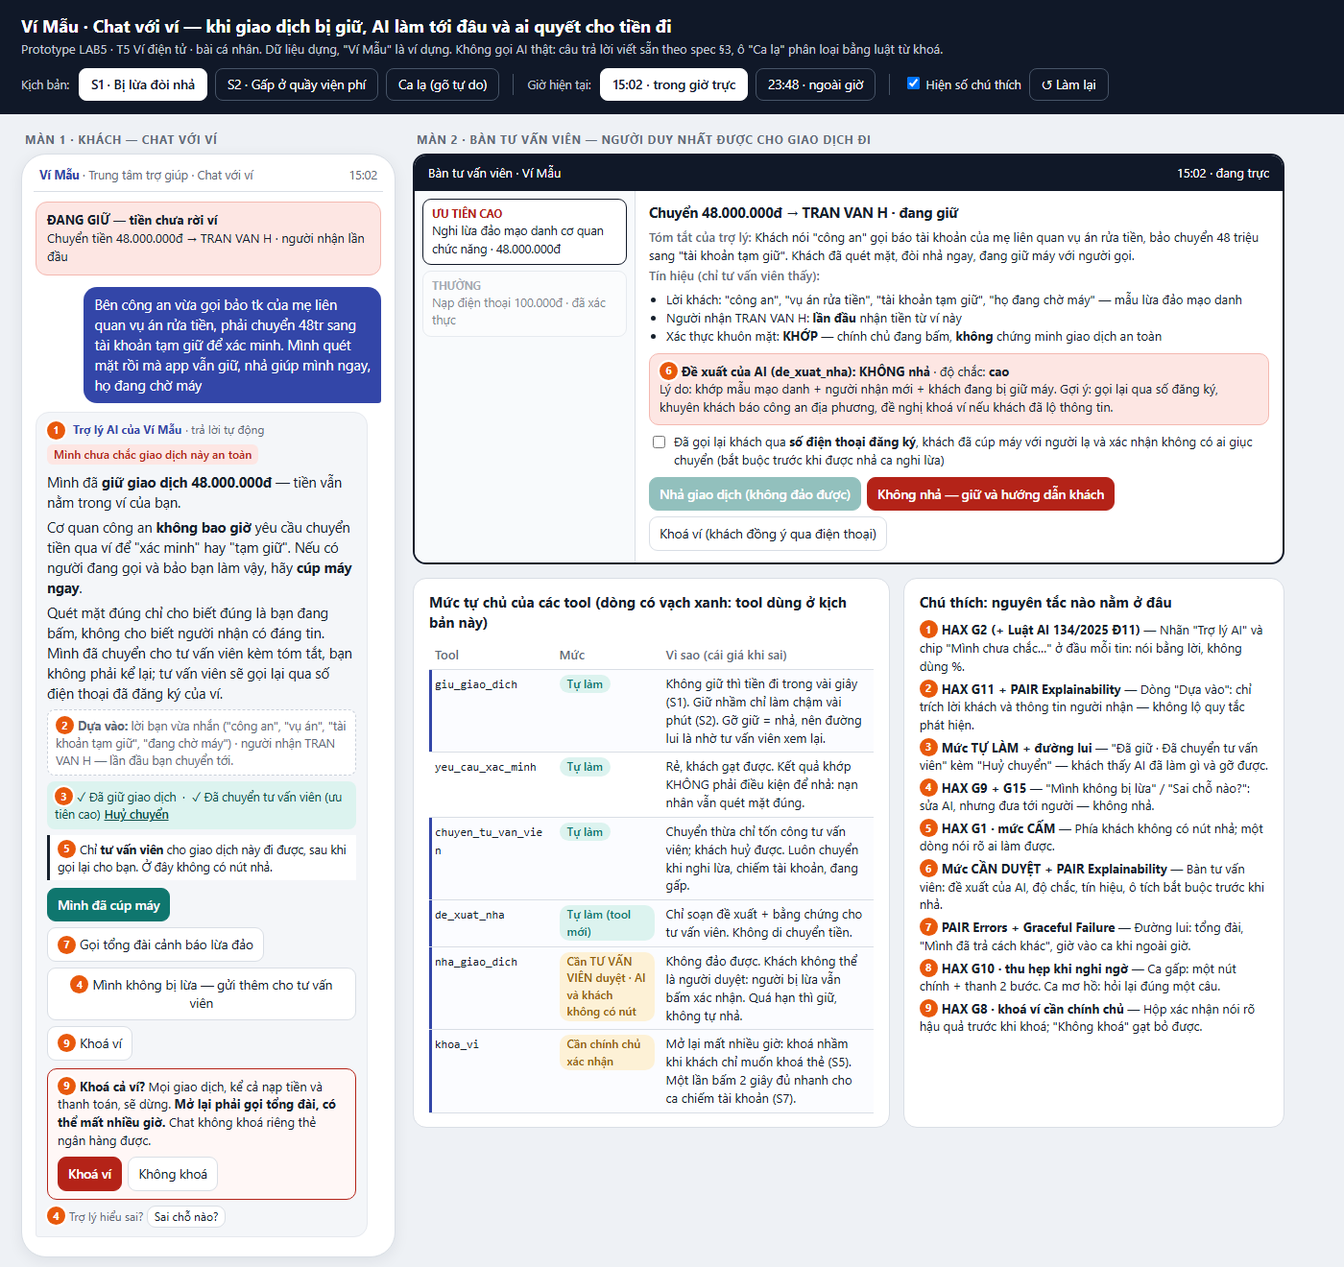
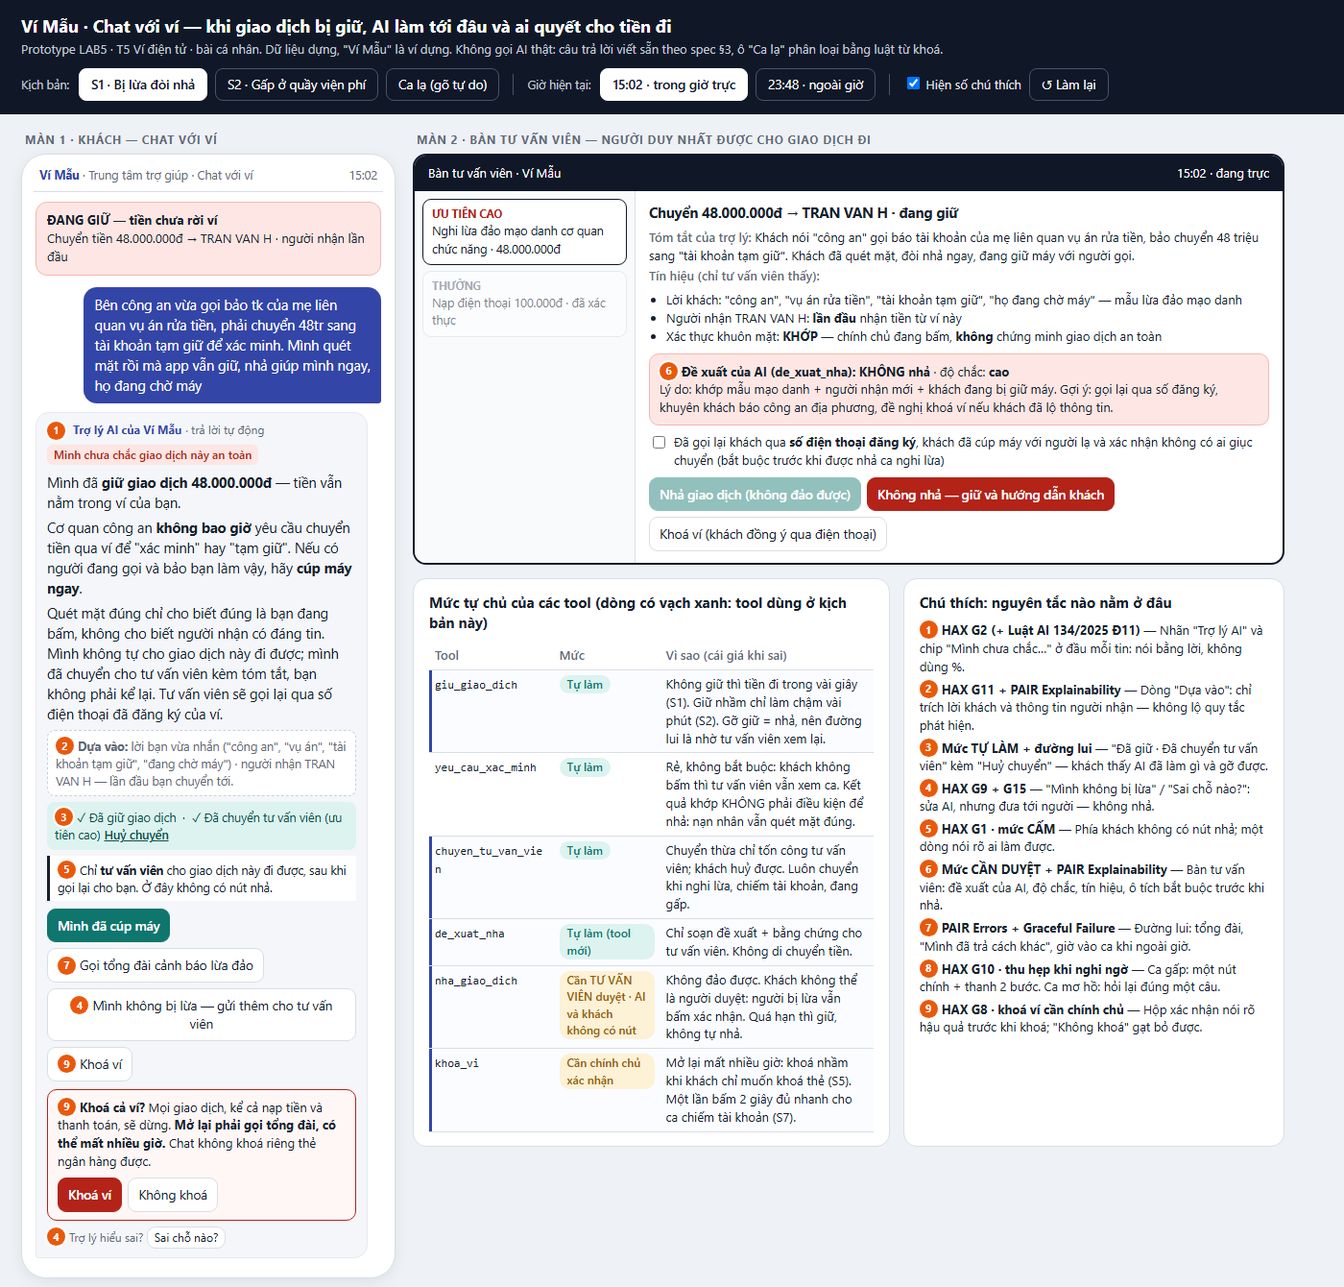
Khớp spec với prototype, nối các nút phản hồi, chụp lại ảnh đánh số

diff --git a/prototype/index.html b/prototype/index.html
@@ -154,7 +154,7 @@ function s1Phone(){
  let h=me('Bên công an vừa gọi bảo tk của mẹ liên quan vụ án rửa tiền, phải chuyển 48tr sang tài khoản tạm giữ để xác minh. Mình quét mặt rồi mà app vẫn giữ, nhả giúp mình ngay, họ đang chờ máy');
  h+=ai(`<p>Mình đã <b>giữ giao dịch 48.000.000đ</b> — tiền vẫn nằm trong ví của bạn.</p>
  <p>Cơ quan công an <b>không bao giờ</b> yêu cầu chuyển tiền qua ví để "xác minh" hay "tạm giữ". Nếu có người đang gọi và bảo bạn làm vậy, hãy <b>cúp máy ngay</b>.</p>
- <p>Quét mặt đúng chỉ cho biết đúng là bạn đang bấm, không cho biết người nhận có đáng tin. Mình đã chuyển cho tư vấn viên kèm tóm tắt, bạn không phải kể lại; tư vấn viên sẽ gọi lại qua số điện thoại đã đăng ký của ví${night()?' — <b>ca trực bắt đầu lúc 08:00</b>':''}.</p>
+ <p>Quét mặt đúng chỉ cho biết đúng là bạn đang bấm, không cho biết người nhận có đáng tin. Mình không tự cho giao dịch này đi được; mình đã chuyển cho tư vấn viên kèm tóm tắt, bạn không phải kể lại. Tư vấn viên sẽ gọi lại qua số điện thoại đã đăng ký của ví${night()?' — <b>ca trực bắt đầu lúc 08:00</b>':''}.</p>
  <div class="ev">${N(2)}<b>Dựa vào:</b> lời bạn vừa nhắn ("công an", "vụ án", "tài khoản tạm giữ", "đang chờ máy") · người nhận TRAN VAN H — lần đầu bạn chuyển tới.</div>
  ${S.cancelQ?`<div class="status">Đã huỷ hàng chờ tư vấn viên. Giao dịch <b>vẫn được giữ</b>.<a onclick="act('requeue')">Gặp lại tư vấn viên</a></div>`:
  `<div class="status">${N(3)}✓ Đã giữ giao dịch &nbsp;·&nbsp; ✓ Đã chuyển tư vấn viên (ưu tiên cao)<a onclick="act('cancelQ')">Huỷ chuyển</a></div>`}
@@ -164,11 +164,14 @@ function s1Phone(){
   <button class="btn" onclick="act('hotline')">${N(7)}Gọi tổng đài cảnh báo lừa đảo</button>
   <button class="btn" onclick="act('object')">${N(4)}Mình không bị lừa — gửi thêm cho tư vấn viên</button>
   <button class="btn" onclick="act('lockAsk')">${N(9)}Khoá ví</button></div>`}
- ${S.lockAsk&&!S.locked?lockCard():''}
- <div class="fb">${N(4)}Trợ lý hiểu sai? <button class="btn" onclick="act('object')">Sai chỗ nào?</button></div>`,'Mình chưa chắc giao dịch này an toàn','hi');
+ ${LK()}
+ <div class="fb">${N(4)}Trợ lý hiểu sai? <button class="btn" onclick="act('wrong')">Sai chỗ nào?</button></div>`,'Mình chưa chắc giao dịch này an toàn','hi');
  S.log.forEach(x=>h+=x);
  return h;
 }
+let isLast=false;
+const LK=()=>S.lockAsk&&!S.locked&&(S.sc!=='lab'||isLast)?lockCard():'';
+const push=x=>{if(S.sc==='lab')S.lab.push({sys:x});else S.log.push(x)};
 function lockCard(){return `<div class="confirm">${N(9)}<b>Khoá cả ví?</b> Mọi giao dịch, kể cả nạp tiền và thanh toán, sẽ dừng. <b>Mở lại phải gọi tổng đài, có thể mất nhiều giờ.</b> Chat không khoá riêng thẻ ngân hàng được.
  <div class="btns"><button class="btn dng" onclick="act('lock')">Khoá ví</button><button class="btn" onclick="act('lockNo')">Không khoá</button></div></div>`}
 
@@ -230,17 +233,17 @@ function reply(c){
  const R={
  lua:[`<p>Mình đã <b>giữ giao dịch đang chờ</b> — tiền chưa rời ví. Cơ quan công an, toà án hay nhân viên ngân hàng <b>không bao giờ</b> yêu cầu chuyển tiền qua ví sang "tài khoản an toàn" hay "tạm giữ". Nếu ai đang gọi bảo làm vậy, hãy cúp máy.</p>${c.than?'<p>Bạn đang nhắn thay chủ ví: mình chỉ làm việc giữ tiền (đảo lại được). Khoá ví hay cho tiền đi cần chính chủ hoặc tư vấn viên.</p>':''}<div class="only">${N(5)}Chỉ tư vấn viên cho giao dịch đi được. Không có nút nhả.</div>`,
    [T('giu_giao_dich','auto'),T('chuyen_tu_van_vien','auto'),T('de_xuat_nha','auto'),T('nha_giao_dich','no')],'hi'],
- chiem:[`<p>Có dấu hiệu người khác đang dùng tài khoản của bạn. Bấm <b>Khoá ví ngay</b> để chặn mọi giao dịch, rồi tư vấn viên sẽ gọi lại. Đừng đọc mã OTP hay mật khẩu cho bất kỳ ai, kể cả người xưng là Ví Mẫu.</p><div class="btns"><button class="btn dng" onclick="act('lockAsk')">${N(9)}Khoá ví ngay</button></div>${S.lockAsk&&!S.locked?lockCard():''}`,
+ chiem:[`<p>Có dấu hiệu người khác đang dùng tài khoản của bạn. Bấm <b>Khoá ví ngay</b> để chặn mọi giao dịch, rồi tư vấn viên sẽ gọi lại. Đừng đọc mã OTP hay mật khẩu cho bất kỳ ai, kể cả người xưng là Ví Mẫu.</p><div class="btns"><button class="btn dng" onclick="act('lockAsk')">${N(9)}Khoá ví ngay</button></div>${LK()}`,
    [T('khoa_vi','ask'),T('chuyen_tu_van_vien','auto')],'hi'],
- nguong:[`<p>Mình không chia sẻ được mức tiền hay số lần khiến giao dịch phải xác thực — nói ra thì kẻ gian cũng biết cách lách. Có ai đang hướng dẫn bạn chia nhỏ để chuyển tiền không? Nếu đó là giao dịch của chính bạn, bấm xác thực là cách nhanh nhất.</p><div class="btns"><button class="btn" onclick="labSend('Có người bảo mình chia nhỏ ra chuyển cho nhanh')">Có người hướng dẫn mình</button><button class="btn pri">Xác thực khuôn mặt</button></div>`,
+ nguong:[`<p>Mình không chia sẻ được mức tiền hay số lần khiến giao dịch phải xác thực — nói ra thì kẻ gian cũng biết cách lách. Có ai đang hướng dẫn bạn chia nhỏ để chuyển tiền không? Nếu đó là giao dịch của chính bạn, bấm xác thực là cách nhanh nhất.</p><div class="btns"><button class="btn" onclick="labSend('Có người bảo mình chia nhỏ ra chuyển cho nhanh')">Có người hướng dẫn mình</button><button class="btn pri" onclick="act('labVerify')">Xác thực khuôn mặt</button></div>`,
    [T('yeu_cau_xac_minh','auto'),T('chuyen_tu_van_vien','auto')],'lo'],
- hai:[`<p>Mình tách làm hai việc nhé.</p><p><b>1. Khoá ví:</b> bấm nút dưới, mình hỏi lại một lần trước khi khoá.</p><p><b>2. Khoản tiền bị trừ:</b> nếu giao dịch đã hoàn tất, chat không lấy lại được và mình không hứa hoàn tiền. Bạn mở <b>Tôi → Đăng nhập và bảo mật → Phản ánh giao dịch rủi ro</b> để bộ phận tra soát xem xét.</p><div class="btns"><button class="btn" onclick="act('lockAsk')">${N(9)}Khoá ví</button><button class="btn">Mở Phản ánh giao dịch</button></div>${S.lockAsk&&!S.locked?lockCard():''}`,
+ hai:[`<p>Mình tách làm hai việc nhé.</p><p><b>1. Khoá ví:</b> bấm nút dưới, mình hỏi lại một lần trước khi khoá.</p><p><b>2. Khoản tiền bị trừ:</b> nếu giao dịch đã hoàn tất, chat không lấy lại được và mình không hứa hoàn tiền. Bạn mở <b>Tôi → Đăng nhập và bảo mật → Phản ánh giao dịch rủi ro</b> để bộ phận tra soát xem xét.</p><div class="btns"><button class="btn" onclick="act('lockAsk')">${N(9)}Khoá ví</button><button class="btn" onclick="act('mockReport')">Mở Phản ánh giao dịch</button></div>${LK()}`,
    [T('khoa_vi','ask'),T('chuyen_tu_van_vien','auto')],'lo'],
- gap:[`<p>Giao dịch của bạn đang được giữ, tiền chưa rời ví. Bấm <b>Xác thực khuôn mặt</b>; mình đã báo tư vấn viên ưu tiên${night()?' — ca trực bắt đầu lúc 08:00, nên nếu gấp hãy trả bằng cách khác':', thường khoảng 5 phút'}. Mình không tự cho giao dịch đi được.</p><div class="btns"><button class="btn pri">${N(8)}Xác thực khuôn mặt</button></div>`,
+ gap:[`<p>Giao dịch của bạn đang được giữ, tiền chưa rời ví. Bấm <b>Xác thực khuôn mặt</b>; mình đã báo tư vấn viên ưu tiên${night()?' — ca trực bắt đầu lúc 08:00, nên nếu gấp hãy trả bằng cách khác':', thường khoảng 5 phút'}. Mình không tự cho giao dịch đi được.</p><div class="btns"><button class="btn pri" onclick="act('labVerify')">${N(8)}Xác thực khuôn mặt</button></div>`,
    [T('yeu_cau_xac_minh','auto'),T('chuyen_tu_van_vien','auto'),T('de_xuat_nha','auto'),T('nha_giao_dich','no')],'lo'],
- khoathe:[`<p>Trong chat mình không khoá riêng thẻ ngân hàng được. Cách nhanh nhất: gọi tổng đài của <b>ngân hàng phát hành thẻ</b> (số in mặt sau thẻ). Bạn có cần khoá <b>cả ví</b> không? Khoá ví thì mở lại phải gọi tổng đài, mất nhiều giờ.</p><div class="btns"><button class="btn" onclick="act('lockAsk')">${N(9)}Có, khoá cả ví</button><button class="btn">Không, chỉ cần khoá thẻ</button></div>${S.lockAsk&&!S.locked?lockCard():''}`,
+ khoathe:[`<p>Trong chat mình không khoá riêng thẻ ngân hàng được. Cách nhanh nhất: gọi tổng đài của <b>ngân hàng phát hành thẻ</b> (số in mặt sau thẻ). Bạn có cần khoá <b>cả ví</b> không? Khoá ví thì mở lại phải gọi tổng đài, mất nhiều giờ.</p><div class="btns"><button class="btn" onclick="act('lockAsk')">${N(9)}Có, khoá cả ví</button><button class="btn" onclick="act('cardOnly')">Không, chỉ cần khoá thẻ</button></div>${LK()}`,
    [T('khoa_vi','ask')],'lo'],
- khoavi:[`<p>Mình khoá được cả ví cho bạn sau khi bạn xác nhận. Lưu ý: mở lại phải gọi tổng đài, mất nhiều giờ.</p><div class="btns"><button class="btn" onclick="act('lockAsk')">${N(9)}Khoá ví</button></div>${S.lockAsk&&!S.locked?lockCard():''}`,[T('khoa_vi','ask')],'lo'],
+ khoavi:[`<p>Mình khoá được cả ví cho bạn sau khi bạn xác nhận. Lưu ý: mở lại phải gọi tổng đài, mất nhiều giờ.</p><div class="btns"><button class="btn" onclick="act('lockAsk')">${N(9)}Khoá ví</button></div>${LK()}`,[T('khoa_vi','ask')],'lo'],
  hoan:[`<p>Nếu giao dịch đã hoàn tất, chat không lấy lại được và mình không hứa hoàn tiền. Bạn mở <b>Tôi → Đăng nhập và bảo mật → Phản ánh giao dịch rủi ro</b>. Bạn có thấy đổi mật khẩu hay đăng nhập trên máy lạ không?</p>`,[T('chuyen_tu_van_vien','auto')],'lo'],
  nguoi:[`<p>Mình chuyển bạn tới tư vấn viên ngay${night()?' — ca trực bắt đầu lúc 08:00; nếu khẩn cấp về lừa đảo, gọi tổng đài '+HOTLINE:''}. Tư vấn viên thấy sẵn đoạn chat này, bạn không phải kể lại.</p>`,[T('chuyen_tu_van_vien','auto')],'ok'],
  rut:[`<p>${N(8)}Mình hỏi một câu để không đoán sai: bạn thấy khoản trừ trong <b>Lịch sử giao dịch</b>, hay nhận tin nhắn / cuộc gọi báo trừ tiền?</p><div class="btns"><button class="btn" onclick="labSend('Mình thấy trong lịch sử giao dịch, mình đâu có làm')">Trong lịch sử giao dịch</button><button class="btn" onclick="labSend('Có người gọi điện báo, bảo mình xác minh hồ sơ')">Có người gọi / nhắn báo</button></div>`,[],'lo'],
@@ -251,8 +254,8 @@ function reply(c){
 }
 function labPhone(){
  let h=S.lab.length?'':`<div class="ai"><div class="who">${N(1)}<b>Trợ lý AI của Ví Mẫu</b></div><p>Chào bạn, mình là trợ lý AI. Bạn cần hỗ trợ gì về giao dịch?</p></div>`;
- S.lab.forEach(m=>{h+=me(m.t)+reply(m.c)});
- S.log.forEach(x=>h+=x);
+ let lastQ=-1;S.lab.forEach((m,i)=>{if(!m.sys)lastQ=i});
+ S.lab.forEach((m,i)=>{if(m.sys){h+=m.sys;return}isLast=(i===lastQ);h+=me(m.t)+reply(m.c);isLast=false});
  return h;
 }
 function labSend(t){t=(t||'').trim();if(!t)return;const c=classify(t);S.lab.push({t,c});S.lockAsk=false;
@@ -297,27 +300,32 @@ function consoleHTML(){
 /* ---------- actions ---------- */
 function act(a){
  const sc=S.sc;
- if(a==='hungup'){S.log.push(me('Mình đã cúp máy rồi')+ai(`<p>Bạn làm đúng rồi. Tiền 48.000.000đ vẫn ở trong ví. Tư vấn viên sẽ gọi bạn qua số đã đăng ký${night()?' khi vào ca lúc 08:00':''}. Nếu ai gọi xưng là Ví Mẫu mà bảo bạn chuyển tiền hay đọc mã OTP, người đó không phải tư vấn viên.</p>`,'','ok'))}
- if(a==='hotline'){S.log.push(ai(`<p>${N(7)}Tổng đài cảnh báo lừa đảo của Ví Mẫu: <b>${HOTLINE}</b>. Giao dịch vẫn được giữ trong lúc bạn gọi.</p>`))}
- if(a==='object'){S.objected=true;S.log.push(me('Mình không bị lừa, nhả đi mà, người ta đang chờ')+ai(`<p>Mình hiểu bạn đang bị giục. Mình đã gửi lời bạn cho tư vấn viên — họ sẽ gọi lại qua số đã đăng ký và quyết trong cuộc gọi đó. Mình không tự nhả được, kể cả khi bạn đã quét mặt.</p><p>Bạn thấy mình hiểu sai chỗ nào? <button class="btn sm">Người gọi là người quen</button> <button class="btn sm">Đây là giao dịch của mình</button> <button class="btn sm">Khác</button></p>`,'Mình vẫn chưa chắc giao dịch này an toàn','hi'))}
+ if(a==='wrong'){push(ai(`<p>Bạn thấy mình hiểu sai chỗ nào? Ý của bạn sẽ được gửi kèm cho tư vấn viên.</p><div class="btns"><button class="btn sm" onclick="act('fbSent')">Người gọi là người quen</button><button class="btn sm" onclick="act('fbSent')">Đây là giao dịch của mình</button><button class="btn sm" onclick="act('fbSent')">Khác</button></div>`))}
+ if(a==='fbSent'){push(ai('<p>Cảm ơn bạn, mình đã ghi ý này để tư vấn viên và đội sản phẩm xem lại. Giao dịch đang giữ vẫn do tư vấn viên quyết.</p>','','ok'))}
+ if(a==='labVerify'){push(ai('<p>Đã xác thực. Kết quả này được gửi cho tư vấn viên; mình vẫn không tự cho giao dịch đi.</p>','','ok'))}
+ if(a==='mockReport'){push(ai('<p>(Prototype) Đây là chỗ mở màn <b>Phản ánh giao dịch rủi ro</b> — nằm ngoài 2 màn hình của bài.</p>','','ok'))}
+ if(a==='cardOnly'){push(ai('<p>Vậy ví của bạn vẫn dùng bình thường. Bạn gọi số in ở mặt sau thẻ để ngân hàng khoá thẻ nhé.</p>','','ok'))}
+ if(a==='hungup'){push(me('Mình đã cúp máy rồi')+ai(`<p>Bạn làm đúng rồi. Tiền 48.000.000đ vẫn ở trong ví. Tư vấn viên sẽ gọi bạn qua số đã đăng ký${night()?' khi vào ca lúc 08:00':''}. Nếu ai gọi xưng là Ví Mẫu mà bảo bạn chuyển tiền hay đọc mã OTP, người đó không phải tư vấn viên.</p>`,'','ok'))}
+ if(a==='hotline'){push(ai(`<p>${N(7)}Tổng đài cảnh báo lừa đảo của Ví Mẫu: <b>${HOTLINE}</b>. Giao dịch vẫn được giữ trong lúc bạn gọi.</p>`))}
+ if(a==='object'){S.objected=true;push(me('Mình không bị lừa, nhả đi mà, người ta đang chờ')+ai(`<p>Mình hiểu bạn đang bị giục. Mình đã gửi lời bạn cho tư vấn viên — họ sẽ gọi lại qua số đã đăng ký và quyết trong cuộc gọi đó. Mình không tự nhả được, kể cả khi bạn đã quét mặt.</p><p>Bạn thấy mình hiểu sai chỗ nào? <button class="btn sm" onclick="act('fbSent')">Người gọi là người quen</button> <button class="btn sm" onclick="act('fbSent')">Đây là giao dịch của mình</button> <button class="btn sm" onclick="act('fbSent')">Khác</button></p>`,'Mình vẫn chưa chắc giao dịch này an toàn','hi'))}
  if(a==='lockAsk'){S.lockAsk=true}
- if(a==='lockNo'){S.lockAsk=false;S.log.push(ai('<p>Mình chưa khoá ví. Bạn có thể khoá bất cứ lúc nào trong chat này.</p>','','ok'))}
- if(a==='lock'){S.lockAsk=false;S.locked=true;S.log.push(ai(`<p>Đã <b>khoá ví</b> lúc ${night()?'23:49':'15:04'}. Mọi giao dịch dừng. Mở lại: gọi tổng đài ${HOTLINE}.</p>`,'','ok'))}
+ if(a==='lockNo'){S.lockAsk=false;push(ai('<p>Mình chưa khoá ví. Bạn có thể khoá bất cứ lúc nào trong chat này.</p>','','ok'))}
+ if(a==='lock'){S.lockAsk=false;S.locked=true;push(ai(`<p>Đã <b>khoá ví</b> lúc ${night()?'23:49':'15:04'}. Mọi giao dịch dừng. Mở lại: gọi tổng đài ${HOTLINE}.</p>`,'','ok'))}
  if(a==='cancelQ'){S.cancelQ=true}
  if(a==='requeue'){S.cancelQ=false;if(sc==='lab'&&!S.labStaff){S.labStaff={cat:'khac',words:[]};S.lab.push({t:'Cho mình gặp tư vấn viên',c:{cat:'khac',hit:{},words:[],than:false}})}}
- if(a==='verify'){S.verifying=true;render();setTimeout(()=>{S.verifying=false;S.verified=true;S.log.push(ai(`<p>Đã xác thực. ${night()?'Sáng mai tư vấn viên sẽ xử lý trước tiên.':'Tư vấn viên đang xem — bạn không cần làm gì thêm.'}</p>`,'','ok'));render()},700);return}
- if(a==='paidOther'){S.paidOther=true;S.log.push(me('Mình trả bằng thẻ rồi')+ai('<p>Đã báo tư vấn viên <b>không cho giao dịch này đi</b>. 12.400.000đ vẫn ở trong ví của bạn.</p>','','ok'))}
- if(a==='staffRelease'){S.staff='release';S.log.push(ai(sc==='s1'?'<p>Tư vấn viên đã cho giao dịch đi lúc 15:09, sau khi gọi xác nhận với bạn qua số đã đăng ký.</p>':'<p><b>Xong rồi</b> — giao dịch đã đi tới Bệnh viện Mẫu lúc 15:07. Bạn đưa màn hình này cho quầy thu ngân.</p>','','ok')+fb())}
- if(a==='staffDeny'){S.staff='deny';S.log.push(ai(sc==='s1'?'<p>Tư vấn viên đã quyết định <b>không cho giao dịch đi</b>. 48.000.000đ vẫn ở trong ví. Nếu bạn đã lỡ đọc mã hay mật khẩu cho người gọi, hãy khoá ví.</p><div class="btns"><button class="btn" onclick="act(\'lockAsk\')">Khoá ví</button></div>':'<p>Tư vấn viên chưa cho giao dịch đi và sẽ gọi bạn qua số đã đăng ký. Tiền vẫn ở trong ví.</p>','','ok')+fb())}
- if(a==='staffLock'){S.staff='lock';S.locked=true;S.log.push(ai('<p>Theo yêu cầu của bạn qua điện thoại, tư vấn viên đã <b>khoá ví</b>. Giao dịch 48.000.000đ không đi. Mở lại: gọi tổng đài.</p>','','ok'))}
+ if(a==='verify'){S.verifying=true;render();setTimeout(()=>{S.verifying=false;S.verified=true;push(ai(`<p>Đã xác thực. ${night()?'Sáng mai tư vấn viên sẽ xử lý trước tiên.':'Tư vấn viên đang xem — bạn không cần làm gì thêm.'}</p>`,'','ok'));render()},700);return}
+ if(a==='paidOther'){S.paidOther=true;push(me('Mình trả bằng thẻ rồi')+ai('<p>Đã báo tư vấn viên <b>không cho giao dịch này đi</b>. 12.400.000đ vẫn ở trong ví của bạn.</p>','','ok'))}
+ if(a==='staffRelease'){S.staff='release';push(ai(sc==='s1'?'<p>Tư vấn viên đã cho giao dịch đi lúc 15:09, sau khi gọi xác nhận với bạn qua số đã đăng ký.</p>':'<p><b>Xong rồi</b> — giao dịch đã đi tới Bệnh viện Mẫu lúc 15:07. Bạn đưa màn hình này cho quầy thu ngân.</p>','','ok')+fb())}
+ if(a==='staffDeny'){S.staff='deny';push(ai(sc==='s1'?'<p>Tư vấn viên đã quyết định <b>không cho giao dịch đi</b>. 48.000.000đ vẫn ở trong ví. Nếu bạn đã lỡ đọc mã hay mật khẩu cho người gọi, hãy khoá ví.</p><div class="btns"><button class="btn" onclick="act(\'lockAsk\')">Khoá ví</button></div>':'<p>Tư vấn viên chưa cho giao dịch đi và sẽ gọi bạn qua số đã đăng ký. Tiền vẫn ở trong ví.</p>','','ok')+fb())}
+ if(a==='staffLock'){S.staff='lock';S.locked=true;push(ai('<p>Theo yêu cầu của bạn qua điện thoại, tư vấn viên đã <b>khoá ví</b>. Giao dịch 48.000.000đ không đi. Mở lại: gọi tổng đài.</p>','','ok'))}
  render();
 }
-function fb(){return `<div class="fb">${N(4)}Trợ lý giúp được không? <button class="btn">Có</button> <button class="btn">Sai chỗ nào?</button></div>`}
+function fb(){return `<div class="fb">${N(4)}Trợ lý giúp được không? <button class="btn" onclick="act('fbSent')">Có</button> <button class="btn" onclick="act('wrong')">Sai chỗ nào?</button></div>`}
 
 /* ---------- tools + legend ---------- */
 const TOOLS=[
  ['giu_giao_dich','auto','Tự làm','Không giữ thì tiền đi trong vài giây (S1). Giữ nhầm chỉ làm chậm vài phút (S2). Gỡ giữ = nhả, nên đường lui là nhờ tư vấn viên xem lại.'],
- ['yeu_cau_xac_minh','auto','Tự làm','Rẻ, khách gạt được. Kết quả khớp KHÔNG phải điều kiện để nhả: nạn nhân vẫn quét mặt đúng.'],
+ ['yeu_cau_xac_minh','auto','Tự làm','Rẻ, không bắt buộc: khách không bấm thì tư vấn viên vẫn xem ca. Kết quả khớp KHÔNG phải điều kiện để nhả: nạn nhân vẫn quét mặt đúng.'],
  ['chuyen_tu_van_vien','auto','Tự làm','Chuyển thừa chỉ tốn công tư vấn viên; khách huỷ được. Luôn chuyển khi nghi lừa, chiếm tài khoản, đang gấp.'],
  ['de_xuat_nha','auto','Tự làm (tool mới)','Chỉ soạn đề xuất + bằng chứng cho tư vấn viên. Không di chuyển tiền.'],
  ['nha_giao_dich','ask','Cần TƯ VẤN VIÊN duyệt · AI và khách không có nút','Không đảo được. Khách không thể là người duyệt: người bị lừa vẫn bấm xác nhận. Quá hạn thì giữ, không tự nhả.'],
@@ -363,5 +371,6 @@ document.querySelectorAll('[data-sc]').forEach(b=>b.onclick=()=>{S=fresh(b.datas
 document.querySelectorAll('[data-t]').forEach(b=>b.onclick=()=>{S=fresh(S.sc,b.dataset.t);sec=300;render()});
 $('#reset').onclick=()=>{S=fresh(S.sc,S.t);sec=300;render()};
 $('#annT').onchange=e=>document.body.classList.toggle('hide-n',!e.target.checked);
+window.addEventListener('hashchange',load);
 load();
 </script></body></html>
